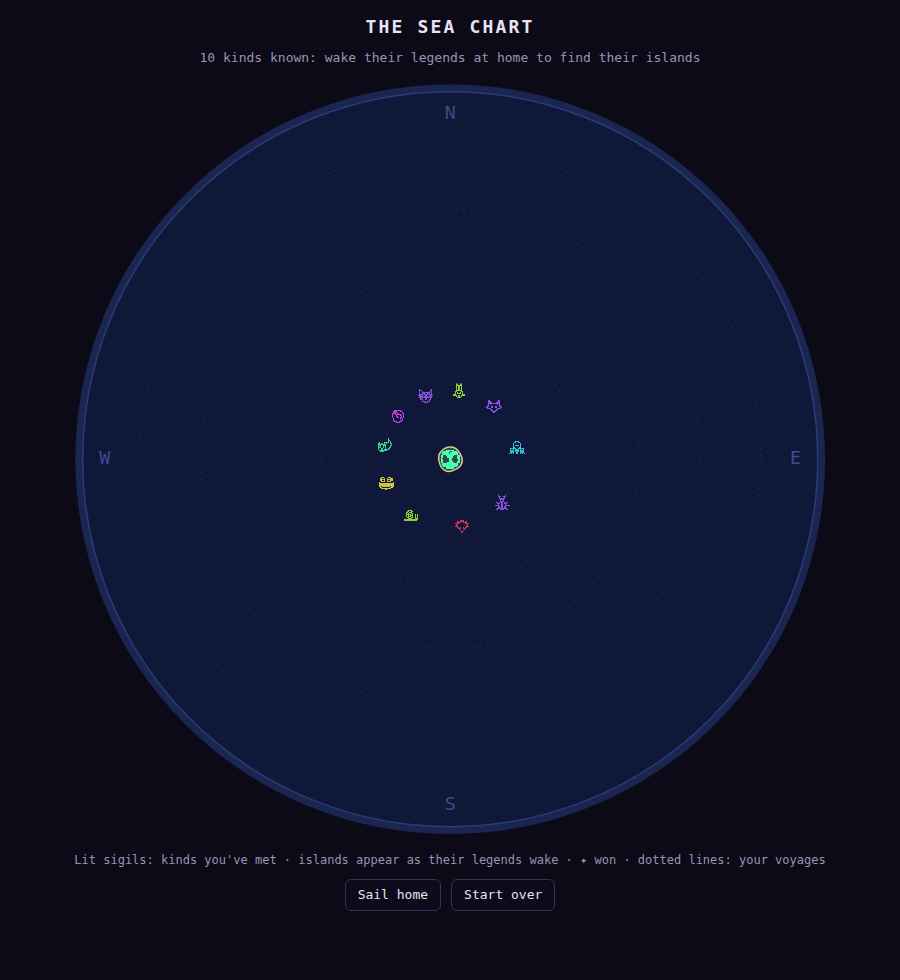
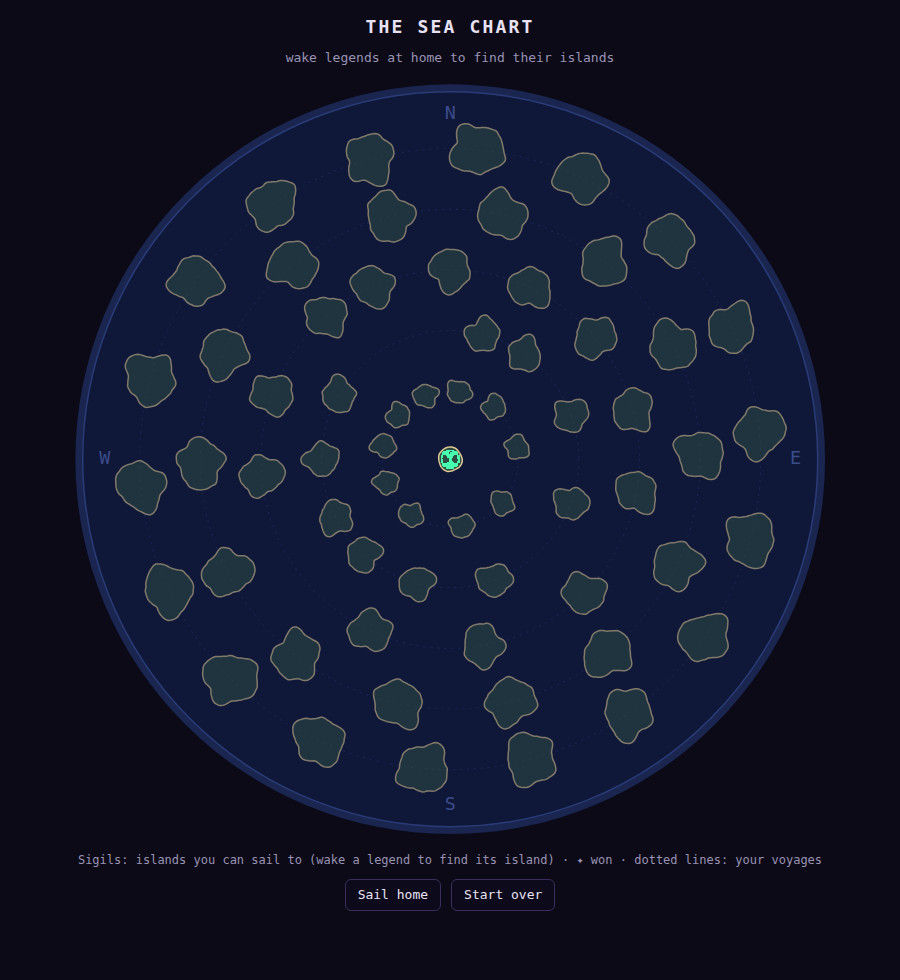
Sea chart: every island always drawn, a sigil only on those she can travel to
Ed's answer, relayed by the coordinator: "You can always see all the
islands - you only see sigils on the ones that you can travel to." All 64
outlines always; home and found islands carry a sigil and a link; the
rest, placeholders too, bare (a '?' under ?chart=all). The met-kinds
sigils (discovered) go.

Claude-Session: https://claude.ai/code/session_01TZiiLtuTHaQyxfLgD6H57G

diff --git a/src/app/chartPage.ts b/src/app/chartPage.ts
@@ -1,14 +1,14 @@
 // The sea chart's page (chart.html; wave 2, part C; Ed, docs/backlog/journey.md "The world and the sea chart"): the world as a
-// disc, home in the middle, each island found drawn in its outline (art/islands.js islandPath of rules/islandShape.ts
-// islandCoast: the map's own coast) with its kind's sigil, at its kind's bearing on its phase's ring; the sigils of kinds she's
-// met lit, even where their islands aren't found yet; the voyages as dotted lines; won islands starred. Click an island to sail
+// disc, home in the middle, every island in its outline (art/islands.js islandPath of rules/islandShape.ts islandCoast: the
+// map's own coast) at its kind's bearing on its phase's ring, a sigil only on those she can travel to; the voyages as dotted
+// lines; won islands starred. Click an island to sail
 // there (?island=<kind>). Start over (after an are-you-sure) forgets it all; ?chart=all shows everything, for testing.
 import { ISLAND_LOOK, islandPath } from "../../art/islands.js";
 import { islandSigil, sigilArrival, sigilColour } from "../../art/sigils.js";
 import { islandCoast } from "../rules/islandShape";
-import { coastSpec, homeIsland, homeKinds, isPlaceholder, islandOf, KIND_NAMES, REAL_KINDS } from "../rules/rosters";
+import { coastSpec, homeIsland, isPlaceholder, islandOf, KIND_NAMES, REAL_KINDS } from "../rules/rosters";
 import { TUNING } from "../rules/tuning";
-import { allSave, clearSave, discovered, loadSave, unlocked } from "./chartSave";
+import { allSave, clearSave, loadSave, unlocked } from "./chartSave";
 import { BOX, islandAt, ringOf } from "./chartLayout";
 
 const NS = "http://www.w3.org/2000/svg";
@@ -47,32 +47,26 @@ function draw(): void {
     const a = islandAt(v.from), b = islandAt(v.to);
     if (a && b) el("line", { x1: a.x, y1: a.y, x2: b.x, y2: b.y, stroke: "rgba(232,180,106,.55)", "stroke-width": 1.5, "stroke-dasharray": "1 4", "stroke-linecap": "round", "vector-effect": "non-scaling-stroke" });
   }
-  const met = discovered(save), open = new Set(unlocked(save)), won = new Set(save.won);
-  // home, then every island found; the sigils of kinds she's met (their islands not found yet) on their own
+  // Every island, always (Ed, 2026-10-11: "You can always see all the islands - you only see sigils on the ones that you can
+  // travel to"): home and each island found in its outline with its sigil, sailable; the rest bare outlines, dimmer, no link
+  // (the placeholders' too; under ?chart=all those show a '?').
+  const open = new Set(unlocked(save)), won = new Set(save.won);
   const islands: { id: string; radii: Float32Array; sigil: string }[] = [];
   islands.push({ id: "home", radii: islandCoast({ kind: "home", areas: homeIsland(0).size }, TUNING.map?.coast).radii, sigil: islandSigil("home") });
-  for (const k of KIND_NAMES) if (open.has(k)) islands.push({ id: k, radii: islandCoast(coastSpec(islandOf(k)!), TUNING.islands?.coast).radii, sigil: k });
-  for (const k of KIND_NAMES) {
-    if (open.has(k) || !met.has(k)) continue;
-    const at = islandAt(k)!, s = 0.045;
-    const g = el("g", { opacity: 0.8 });
-    el("title", {}, g).textContent = `${k}: met, its island not yet found`;
-    el("image", { href: sigilImage(k), x: at.x - s / 2, y: at.y - s / 2, width: s, height: s }, g);
-  }
+  for (const k of KIND_NAMES) islands.push({ id: k, radii: islandCoast(coastSpec(islandOf(k)!), TUNING.islands?.coast).radii, sigil: k });
   for (const isl of islands) {
-    // (a placeholder's island, a kind not designed yet: drawn with '?', not sailable: Ed, 2026-10-11)
-    const unknown = isPlaceholder(isl.id), at = islandAt(isl.id)!;
-    const a = unknown ? el("g", { opacity: 0.75 }) : el("a", { href: `./?island=${isl.id}`, class: "island", tabindex: 0 });
-    el("title", {}, a).textContent = unknown ? "Not yet charted" : `${isl.id === "home" ? "Home" : `The ${isl.id}'s island`}${won.has(isl.id) ? " (won)" : ""}: sail there`;
+    const at = islandAt(isl.id)!, unknown = isPlaceholder(isl.id), sail = open.has(isl.id) && !unknown;
+    const a = sail ? el("a", { href: `./?island=${isl.id}`, class: "island", tabindex: 0 }) : el("g", { opacity: 0.55 });
+    el("title", {}, a).textContent = sail ? `${isl.id === "home" ? "Home" : `The ${isl.id}'s island`}${won.has(isl.id) ? " (won)" : ""}: sail there` : unknown ? "Not yet charted" : "Not yet found";
     const g = el("g", { transform: `translate(${at.x - BOX / 2} ${at.y - BOX / 2}) scale(${BOX})` }, a);
     el("path", { d: islandPath(isl.radii), class: "land", fill: rgb(ISLAND_LOOK.land2), stroke: rgb(ISLAND_LOOK.sand), "stroke-width": 1.5, "vector-effect": "non-scaling-stroke" }, g);
     const s = isl.id === "home" ? 0.06 : 0.045;
-    if (unknown) { const q = el("text", { x: at.x, y: at.y, "text-anchor": "middle", "dominant-baseline": "central", "font-size": 0.05, "font-weight": "bold", fill: "#9a93b4" }, a); q.textContent = "?"; }
-    else el("image", { href: sigilImage(isl.sigil), x: at.x - s / 2, y: at.y - s / 2, width: s, height: s }, a);
+    if (sail) el("image", { href: sigilImage(isl.sigil), x: at.x - s / 2, y: at.y - s / 2, width: s, height: s }, a);
+    else if (unknown && showAll) { const q = el("text", { x: at.x, y: at.y, "text-anchor": "middle", "dominant-baseline": "central", "font-size": 0.05, "font-weight": "bold", fill: "#9a93b4" }, a); q.textContent = "?"; }
     if (won.has(isl.id)) { const star = el("text", { x: at.x + 0.045, y: at.y - 0.04, "font-size": 0.05, fill: "#e8b46a" }, a); star.textContent = "✦"; }
   }
   const n = save.found.filter(k => !isPlaceholder(k)).length;
-  document.getElementById("status")!.textContent = `${n ? `${n} of ${REAL_KINDS.length} islands found${showAll ? ` (and ${KIND_NAMES.length - REAL_KINDS.length} not yet charted)` : ""}` : `${homeKinds().length} kinds known: wake their legends at home to find their islands`}${save.won.length ? ` · ${save.won.length} won` : ""}${showAll ? " · showing everything (?chart=all)" : ""}`;
+  document.getElementById("status")!.textContent = `${n ? `${n} of ${REAL_KINDS.length} islands found${showAll ? ` (and ${KIND_NAMES.length - REAL_KINDS.length} not yet charted)` : ""}` : `wake legends at home to find their islands`}${save.won.length ? ` · ${save.won.length} won` : ""}${showAll ? " · showing everything (?chart=all)" : ""}`;
 }
 
 document.getElementById("start-over")!.addEventListener("click", () => {

diff --git a/src/app/chartSave.test.ts b/src/app/chartSave.test.ts
@@ -1,18 +1,17 @@
 // The sea chart's save (wave 2, part C; app/chartSave.ts): what a night unlocks, kept in the browser.
 import { describe, expect, it } from "vitest";
-import { allSave, clearSave, discovered, emptySave, loadSave, recordNight, SAVE_KEY, storeSave, unlocked } from "./chartSave";
-import { homeKinds, islandOf, KIND_NAMES } from "../rules/rosters";
+import { allSave, clearSave, emptySave, loadSave, recordNight, SAVE_KEY, storeSave, unlocked } from "./chartSave";
+import { KIND_NAMES } from "../rules/rosters";
 
 function memory(items: Record<string, string> = {}) {
   return { items, getItem: (k: string) => items[k] ?? null, setItem: (k: string, v: string) => { items[k] = v; }, removeItem: (k: string) => { delete items[k]; } };
 }
 
 describe("the sea chart's save", () => {
-  it("starts with home alone unlocked and home's kinds met", () => {
+  it("starts with home alone unlocked", () => {
     const s = loadSave(memory());
     expect(s).toEqual(emptySave());
     expect(unlocked(s)).toEqual(["home"]);
-    expect([...discovered(s)].sort()).toEqual([...homeKinds()].sort());
   });
 
   it("unlocks the islands of the legends a won night woke, each with its voyage from where she set out; a lost night only plays", () => {
@@ -23,10 +22,9 @@ describe("the sea chart's save", () => {
     expect(unlocked(s)).toEqual(["home", "fox", "owl"]);
     expect(s.won).toEqual(["home"]);
     expect(s.voyages).toEqual([{ from: "home", to: "fox" }, { from: "home", to: "owl" }]);
-    // the fox's island: its roster's kinds met once played; an island found again keeps its first voyage
+    // the fox's island: an island found again keeps its first voyage
     s = recordNight(s, "fox", { won: true, found: ["owl", "raven"] });
     expect(s.voyages).toEqual([{ from: "home", to: "fox" }, { from: "home", to: "owl" }, { from: "fox", to: "raven" }]);
-    for (const r of islandOf("fox")!.roster) expect(discovered(s).has(r.kind)).toBe(true);
     expect(s.won).toEqual(["home", "fox"]);
     // not an island of the chart (a numbered map): nothing recorded
     expect(recordNight(s, "", { won: true, found: ["bear"] })).toBe(s);

diff --git a/src/app/chartSave.ts b/src/app/chartSave.ts
@@ -1,9 +1,9 @@
 // The sea chart's save (wave 2, part C; Ed, 2026-10-10/11, docs/backlog/journey.md "The world and the sea chart"): what she's
 // found, kept in this browser. Islands appear on the chart as their legends are woken (a night won with that legend among its
 // dealt ones: rules/win.ts found; an enraged legend's island stays hidden), each found from the island she set out from (a
-// voyage, a line on the chart); won islands are marked; kinds she's met light their sigils. Losing loses nothing (Ed,
+// voyage, a line on the chart); won islands are marked; every island is drawn, a sigil only on those she can travel to. Losing loses nothing (Ed,
 // 2026-10-11): the night's island is only played. Every storage access is try/caught: blocked storage plays with nothing saved.
-import { homeKinds, isPlaceholder, islandOf, KINDS, playableIsland, REAL_KINDS } from "../rules/rosters";
+import { isPlaceholder, KINDS, playableIsland, REAL_KINDS } from "../rules/rosters";
 
 export const SAVE_KEY = "witch.chart";
 
@@ -67,15 +67,6 @@ export function recordNight(save: ChartSave, island: string, result: { won: bool
 
 /** The islands she can play: home and every one found. */
 export const unlocked = (save: ChartSave): string[] => ["home", ...save.found];
-
-/** The kinds she's met (their sigils lit on the chart): home's from the start, every kind on an island she's played, and every
- *  island's kind she's found. */
-export function discovered(save: ChartSave): Set<string> {
-  const out = new Set<string>(homeKinds());
-  for (const k of save.found) out.add(k);
-  for (const p of save.played) if (p !== "home") for (const r of islandOf(p)?.roster ?? []) out.add(r.kind);
-  return out;
-}
 
 /** Every island found, won and played, every kind met (?chart=all, for testing): a save with the whole chart open, the
  *  placeholders' '?' islands too (their voyages from the island nearest them a phase in). */

diff --git a/chart.html b/chart.html
@@ -29,7 +29,7 @@
     <h1>THE SEA CHART</h1>
     <div id="status"></div>
     <svg id="chart" viewBox="-1.04 -1.04 2.08 2.08" role="img" aria-label="The sea chart"></svg>
-    <div id="legend">Lit sigils: kinds you've met · islands appear as their legends wake · ✦ won · dotted lines: your voyages</div>
+    <div id="legend">Sigils: islands you can sail to (wake a legend to find its island) · ✦ won · dotted lines: your voyages</div>
     <div class="bar"><a class="btn" id="home" href="./?island=home">Sail home</a><button id="start-over">Start over</button></div>
   </main>
   <script type="module" src="/src/app/chartPage.ts"></script>

diff --git a/docs/backlog/journey.md b/docs/backlog/journey.md
@@ -78,9 +78,9 @@ Using only today's 32 kinds and art:
 1. **Small islands:** a map size by area count (10 / 20 / ...), round, with the swarm curve indexed by wave number (above). **Built** (2026-10-11): `map.islandAreas` (10 by default, `?island=`), `population.swarm.waves` 64, and relics one per 10 areas, each a bottle, mirrored or not, in one of six colours, never the same bottle and colour twice on a map.
 2. **Rosters:** an island's area types drawn by the roster rule from a table giving each of the 32 kinds a phase (home 10, phase 1 10, phase 2 the other 12; biomes later). **Built** (2026-10-11): the kind table `config/kinds.json` (Ed approved it as drafted: each kind's phase and its island's **planned biome direction**, a compass bearing that places the island on the sea chart; today's 32 are all temperate, so the bearing only places it), and `rules/rosters.ts`: `islandOf(kind)` → `{ kind, phase, bearing, size, seed, roster }` (phase its kind's + 1, size 10 a phase, seed from its bearing and phase ring, so its shape follows from `islandOf` alone), `homeIsland(seed)`, `dealLegends(island, night, found, prefer)` (1 in 5 areas, never its own kind, kinds whose islands aren't found first). The map plays one by `map.island` (`"home"` by default: one area per kind she knows; a kind's name, `?island=fox`, its island on its own seed, the run's seed dealing the night's legends: `map.legendKinds`); `map.found` the kinds whose islands she's found.
 3. **Winning:** survive every wave with no enraged creature left; the legends dealt that night wake. Ed (2026-10-11): enraged legends don't block the win (they calm at the win), and their islands are **not** unlocked; after a win a **"Night won" card** lists the islands just found and leads to the sea chart.
-4. **The sea chart:** a bare page: home in the middle, islands appearing as their legends are woken, click one to play it; progress saved in the browser. Ed (2026-10-11): islands placed by their kind's planned biome direction; a **Start over** button with a confirm; `?chart=all` shows every island. **Built** (2026-10-11): `chart.html` (and `?chart` on the game's link), `app/chartPage.ts`: the disc, home in the middle with its ring of known kinds' sigils lit; each island found in its outline (`art/islands.js` islandPath of `rules/islandShape.ts` islandCoast with `rules/rosters.ts` coastSpec: the map's own coast) with its sigil, on its phase's ring at its bearing (`app/chartLayout.ts`, neighbours nudged apart a few degrees); kinds met but their islands not found, their sigils alone; voyages as dotted lines; won islands starred; click one to sail there (`?island=<kind>`). The save (`app/chartSave.ts`, localStorage `witch.chart`): found kinds, won and played islands, voyages; a won night finds the islands of the legends it woke (`win.found`, never `win.lost`), a lost one only plays; the game's legends favour unfound islands (`map.found` from the save). The party's-over card has a Sea chart button.
+4. **The sea chart:** a bare page: home in the middle, islands appearing as their legends are woken, click one to play it; progress saved in the browser. Ed (2026-10-11): islands placed by their kind's planned biome direction; a **Start over** button with a confirm; `?chart=all` shows every island. **Built** (2026-10-11): `chart.html` (and `?chart` on the game's link), `app/chartPage.ts`: the disc, home in the middle; every island always drawn in its outline (Ed, 2026-10-11: "You can always see all the islands — you only see sigils on the ones that you can travel to"), a sigil and a link only on those she can travel to (home and each found) (`art/islands.js` islandPath of `rules/islandShape.ts` islandCoast with `rules/rosters.ts` coastSpec: the map's own coast) with its sigil, on its phase's ring at its bearing (`app/chartLayout.ts`, neighbours nudged apart a few degrees), the rest bare outlines; voyages as dotted lines; won islands starred; click one to sail there (`?island=<kind>`). The save (`app/chartSave.ts`, localStorage `witch.chart`): found kinds, won and played islands, voyages; a won night finds the islands of the legends it woke (`win.found`, never `win.lost`), a lost one only plays; the game's legends favour unfound islands (`map.found` from the save). The party's-over card has a Sea chart button.
 5. **Home** growing by one area per kind found.
-6. **All the islands** (Ed, 2026-10-11: "We should generate all the islands. For islands where we haven't designed the creatures yet, use '?'"): `config/kinds.json` holds all 64 kinds, today's 32 and 32 placeholders (`unknown-01`…`unknown-32`, `placeholder: true`): 14 introduced in phase 3 and 18 in phase 4, their bearings spread round the compass, each with the biome its direction suggests. Every island has a seed, size and coast (`islandOf`); a placeholder's shows on the sea chart as a '?' in its outline, not sailable ("Not yet charted"), and no roster or night's deal ever holds a placeholder kind, nor does `?island=` play one. `?chart=all` shows all 64.
+6. **All the islands** (Ed, 2026-10-11: "We should generate all the islands. For islands where we haven't designed the creatures yet, use '?'"): `config/kinds.json` holds all 64 kinds, today's 32 and 32 placeholders (`unknown-01`…`unknown-32`, `placeholder: true`): 14 introduced in phase 3 and 18 in phase 4, their bearings spread round the compass, each with the biome its direction suggests. Every island has a seed, size and coast (`islandOf`); a placeholder's shows on the sea chart as a bare outline like any island not yet found, not sailable ("Not yet charted"; a '?' under `?chart=all`), and no roster or night's deal ever holds a placeholder kind, nor does `?island=` play one. `?chart=all` shows all 64.
 Not yet: the Ent, the voyage, treehouse rooms, records, lakes, biomes.
 
 ### Mushrooms on the journey (Ed, 2026-10-10)

diff --git a/CLAUDE.md b/CLAUDE.md
@@ -154,7 +154,7 @@ Literal, stable names for the parts of the game, as Ed and the builders agree th
 - **Master curve**: the hostile swarms' difficulty by wave number (Ed, 2026-10-10, 2026-10-11): an area's share of the swarm curve is (its wave − 1)/(`population.swarm.waves` − 1), so wave 64 brings today's final swarm and every island plays it from wave 1 as far as it has areas (`routePopulation`, rules/growth.ts).
 - **Journey art kit** (Ed, 2026-10-11: the south and west biomes; concepts on claude/ed-shots under `previews/ed/south/` and `previews/ed/west/`): pieces in the art kit with no roster or game wiring yet: the `sand` floor kind (`art/ground.js`, its tufts in `art/tufts.js`); the `datePalm` (a real palm: a tall ringed trunk, arching fronds, dates; `fronds.fruit` in `art/flora/blob.js`) and the stilt-root `mangrove` (`trunk.stilts`) in `art/flora/genomes.js`; and the `scarab` builder on the insectoid template (`scarab3d` in `art/creatures3d.js`: a domed beetle with a head horn; its legend feature `sunBall`).
 - **Kind table / roster / island by kind**: `config/kinds.json` gives each of the 64 kinds the phase it's introduced in (home 10, phase 1 10, phase 2 12; then 14 and 18 **placeholders**, `unknown-NN`, kinds not designed yet: their islands only on the sea chart, as '?', never played, dealt or on a roster) and its island's planned biome direction (a bearing on the sea chart); `rules/rosters.ts` makes kind K's island (`islandOf(K)`: phase K's + 1, 10 areas a phase, seeded by where it lies), its **roster** (its mix of area types: K plentiful, 1-3 kinds new to its phase, the rest by bearing) and each night's legends (`dealLegends`: 1 in 5 areas, never K, unfound islands' kinds first). `map.island` plays one (`"home"` by default, or `?island=fox`); `map.legendKinds` are the night's dealt legends (Ed, 2026-10-11; docs/backlog/journey.md "Rosters").
-- **Sea chart**: the journey's map of islands (`chart.html`, or `?chart`; `?chart=all` shows everything; Ed, 2026-10-11): the world's disc, home in the middle, each island found in its outline at its kind's bearing on its phase's ring, the sigils of kinds she's met lit, voyages as dotted lines, won islands starred; click one to play it. Its save is this browser's (`app/chartSave.ts`, `witch.chart`): a won night finds its woken legends' islands, a lost one only plays; Start over forgets it.
+- **Sea chart**: the journey's map of islands (`chart.html`, or `?chart`; `?chart=all` shows everything; Ed, 2026-10-11): the world's disc, home in the middle, all 64 islands always drawn in their outlines at their kinds' bearings on their phases' rings, a sigil (and a link) only on those she can travel to, voyages as dotted lines, won islands starred; click one to play it. Its save is this browser's (`app/chartSave.ts`, `witch.chart`): a won night finds its woken legends' islands, a lost one only plays; Start over forgets it.
 - **Remoteness**: how far an area is from home, 0 at the dancefloor's area to 1 at the map's edge; creatures grow more numerous and older with it.
 - **Tilt-shift**: the post-process blur toward the top and bottom of the screen that makes the forest look like a miniature; the DOM overlays standing in the world (💌s, hearts, dream, reply and chat bubbles) get the same blur by their height on screen as a CSS blur (`src/render/overlayTilt.ts`, Ed's round 14 playtest), the HUD stays sharp.
 - **Tuning file**: `config/tuning.json`, the numbers Ed edits (speeds, camera, density, glow, pixel size, creatures, bloom, tilt-shift). Its schema is `config/schema/tuning.schema.json` (every knob's type and range; `src/rules/schema.ts` checks it, `src/rules/tuningSchema.test.ts` fails on an unknown, missing, mistyped or out-of-range knob) and its reference, generated from the schema and the file's `_` notes, is `config/KNOBS.md`. After adding or renaming a knob, or editing a `_` note: `node tools/config/schema.mjs --add --docs` (string choices and name-keyed records go in `TUNING_OVER`, `src/rules/tuningSchema.ts`). Changing a value needs nothing (the reference lists no values). The other configs I check the same way (`combat.json`, `movement.json`, `travel.json`, `area-types.json`, `legend-buffs.json`: `src/rules/configSchemas.ts` lists each, its records keyed by name and its string choices; `src/rules/configs.test.ts` checks each against `config/schema/<name>.schema.json` and that the species, attacks, area types and buff kinds they name are real). After adding a field to one: `node tools/config/schema.mjs --add` (or `--init` to re-infer every schema).
